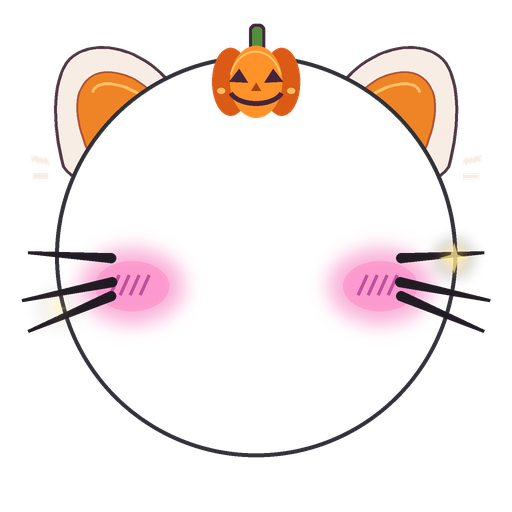
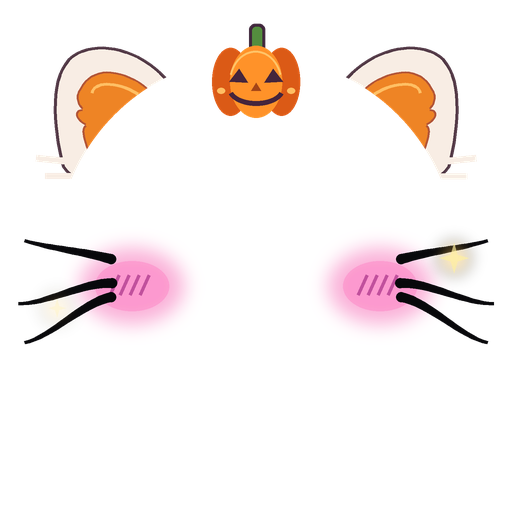
fix : 고양이 귀와 수염 움직임 및 원형 테두리 제거

diff --git a/scripts/generate-halloween-cat-frame.py b/scripts/generate-halloween-cat-frame.py
@@ -85,7 +85,9 @@ def inner_ear() -> list[Point]:
     return (
         cubic((157, 171), (170, 133), (170, 106), (144, 85))
         + cubic((144, 85), (119, 67), (91, 66), (80, 88))[1:]
-        + cubic((80, 88), (69, 108), (81, 143), (99, 176))[1:]
+        + cubic((80, 88), (74, 96), (77, 105), (82, 109))[1:]
+        + cubic((82, 109), (72, 110), (75, 120), (85, 125))[1:]
+        + cubic((85, 125), (78, 130), (86, 150), (99, 176))[1:]
         + cubic((99, 176), (117, 186), (144, 184), (157, 171))[1:]
     )
 
@@ -113,38 +115,47 @@ def draw_ear(layer: Image.Image, angle: float, right: bool) -> None:
     draw.line(scale_points(highlight), fill="#FFBF64", width=3 * DRAW_SCALE, joint="curve")
 
 
-def draw_whiskers(layer: Image.Image, sway: float) -> None:
+def draw_whiskers(layer: Image.Image, progress: float) -> None:
     draw = ImageDraw.Draw(layer)
+    wave = math.sin(2 * math.pi * progress)
+    fan = math.cos(2 * math.pi * progress)
     left_lines = (
-        ((111, 258), (28, 252 + sway)),
-        ((112, 282), (22, 300 + sway)),
-        ((111, 296), (28, 331 + sway)),
+        ((111, 258), (28, 252 - 11 * wave - 7 * fan), -6),
+        ((112, 282), (22, 300 + 7 * wave), 0),
+        ((111, 296), (28, 331 + 11 * wave + 7 * fan), 6),
     )
-    for start, end in left_lines:
-        for pair in ((start, end), (mirror([start])[0], mirror([end])[0])):
-            root, tip = pair
-            delta_x, delta_y = tip[0] - root[0], tip[1] - root[1]
-            length = math.hypot(delta_x, delta_y)
-            normal_x, normal_y = -delta_y / length, delta_x / length
-            draw.polygon(
-                scale_points(
-                    [
-                        (root[0] + 5 * normal_x, root[1] + 5 * normal_y),
-                        (tip[0] + 1.5 * normal_x, tip[1] + 1.5 * normal_y),
-                        (tip[0] - 1.5 * normal_x, tip[1] - 1.5 * normal_y),
-                        (root[0] - 5 * normal_x, root[1] - 5 * normal_y),
-                    ]
-                ),
-                fill="#211B24",
-            )
+    for start, end, curve in left_lines:
+        root = (start[0], start[1] + 2 * wave)
+        tip = (end[0] - 4 * fan, end[1])
+        centerline = cubic(
+            root,
+            (root[0] - 27, root[1] + curve - 3 * wave),
+            (tip[0] + 25, tip[1] - curve + 3 * wave),
+            tip,
+        )
+        for right in (False, True):
+            points = mirror(centerline) if right else centerline
+            upper = []
+            lower = []
+            for index, point in enumerate(points):
+                previous = points[max(0, index - 1)]
+                following = points[min(len(points) - 1, index + 1)]
+                dx, dy = following[0] - previous[0], following[1] - previous[1]
+                length = math.hypot(dx, dy)
+                normal_x, normal_y = -dy / length, dx / length
+                width = 5 - 3.5 * index / (len(points) - 1)
+                upper.append((point[0] + width * normal_x, point[1] + width * normal_y))
+                lower.append((point[0] - width * normal_x, point[1] - width * normal_y))
+            draw.polygon(scale_points(upper + list(reversed(lower))), fill="#08080B")
+            whisker_root = points[0]
             draw.ellipse(
                 (
-                    round((root[0] - 5) * DRAW_SCALE),
-                    round((root[1] - 5) * DRAW_SCALE),
-                    round((root[0] + 5) * DRAW_SCALE),
-                    round((root[1] + 5) * DRAW_SCALE),
+                    round((whisker_root[0] - 5) * DRAW_SCALE),
+                    round((whisker_root[1] - 5) * DRAW_SCALE),
+                    round((whisker_root[0] + 5) * DRAW_SCALE),
+                    round((whisker_root[1] + 5) * DRAW_SCALE),
                 ),
-                fill="#211B24",
+                fill="#08080B",
             )
 
 
@@ -283,14 +294,23 @@ def draw_sparkles(layer: Image.Image, progress: float) -> None:
 
 def render_frame(index: int) -> Image.Image:
     progress = index / FRAME_COUNT
-    perk = (1 - math.cos(2 * math.pi * progress)) / 2
-    whisker_sway = 2.5 * math.sin(2 * math.pi * progress - 0.35)
+    flop = smoothstep((progress - 0.12) / 0.38) * (
+        1 - smoothstep((progress - 0.62) / 0.25)
+    )
     canvas_size = CANVAS_SIZE * DRAW_SCALE
     layer = Image.new("RGBA", (canvas_size, canvas_size))
 
-    # The reference ears mostly hold their shape while the face effects animate.
-    draw_ear(layer, angle=8 * perk, right=False)
-    draw_ear(layer, angle=8 * perk, right=True)
+    # The ears fold outward, then perk up; their bases stay fixed to the avatar.
+    draw_ear(layer, angle=-16 * flop, right=False)
+    draw_ear(layer, angle=-16 * flop, right=True)
+
+    draw = ImageDraw.Draw(layer)
+    for right in (False, True):
+        left_tufts = (((75, 162), (36, 158), 7), ((77, 176), (45, 176), 6))
+        for start, end, width in left_tufts:
+            if right:
+                start, end = mirror([start, end])
+            draw.line(scale_points([start, end]), fill="#F8EDE4", width=width * DRAW_SCALE)
 
     # Ear bases sit behind the transparent photo opening, as in the reference.
     opening = Image.new("L", (canvas_size, canvas_size))
@@ -301,28 +321,9 @@ def render_frame(index: int) -> Image.Image:
     alpha = layer.getchannel("A")
     layer.putalpha(ImageChops.subtract(alpha, opening))
 
-    draw = ImageDraw.Draw(layer)
-    draw.ellipse(
-        (55 * DRAW_SCALE, 55 * DRAW_SCALE, 457 * DRAW_SCALE, 457 * DRAW_SCALE),
-        outline="#303038",
-        width=4 * DRAW_SCALE,
-    )
-    for right in (False, True):
-        side = -1 if right else 1
-        x = 49 if not right else 463
-        draw.line(
-            scale_points([(x, 162), (x - 18 * side, 158)]),
-            fill="#F8EDE4",
-            width=7 * DRAW_SCALE,
-        )
-        draw.line(
-            scale_points([(x, 176), (x - 16 * side, 176)]),
-            fill="#F8EDE4",
-            width=6 * DRAW_SCALE,
-        )
     draw_pumpkin(layer, progress)
     draw_blush(layer, progress)
-    draw_whiskers(layer, whisker_sway)
+    draw_whiskers(layer, progress)
     draw_sparkles(layer, progress)
     return layer.resize((CANVAS_SIZE, CANVAS_SIZE), Image.Resampling.LANCZOS)
 
